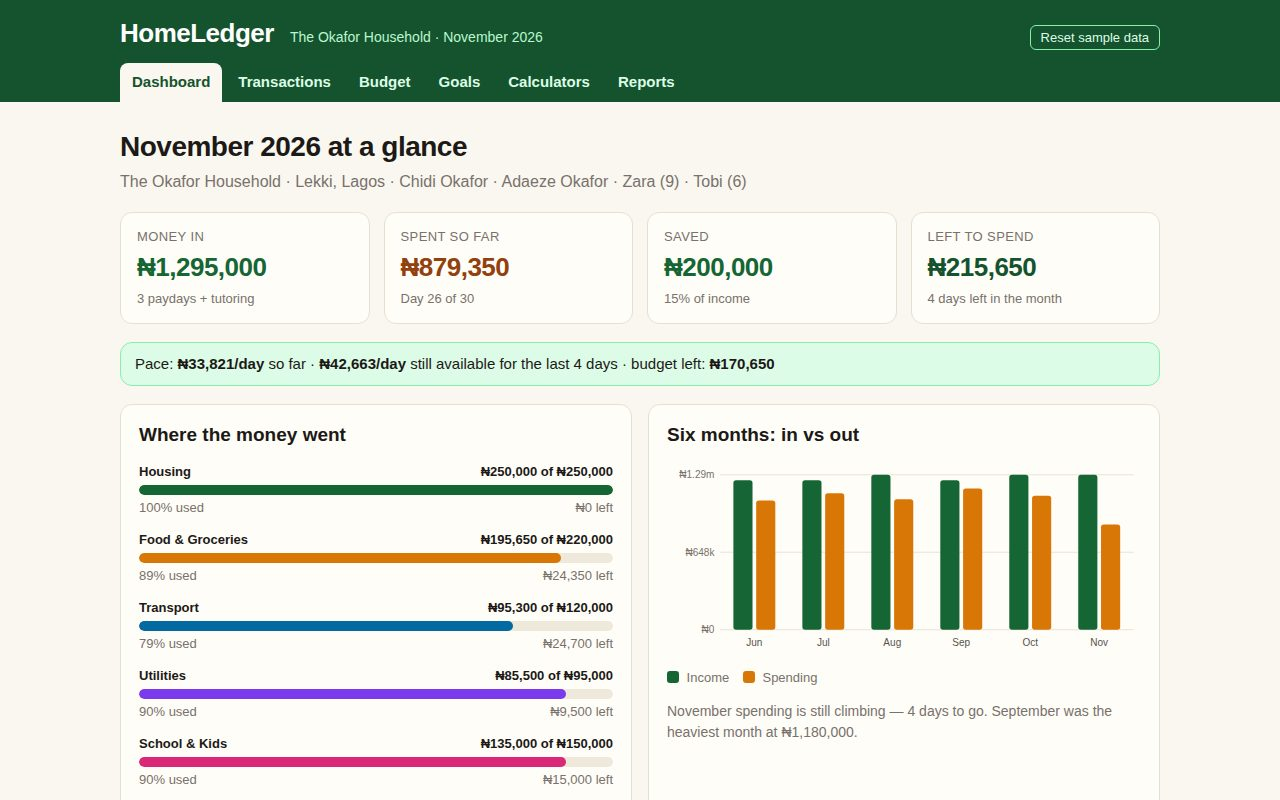
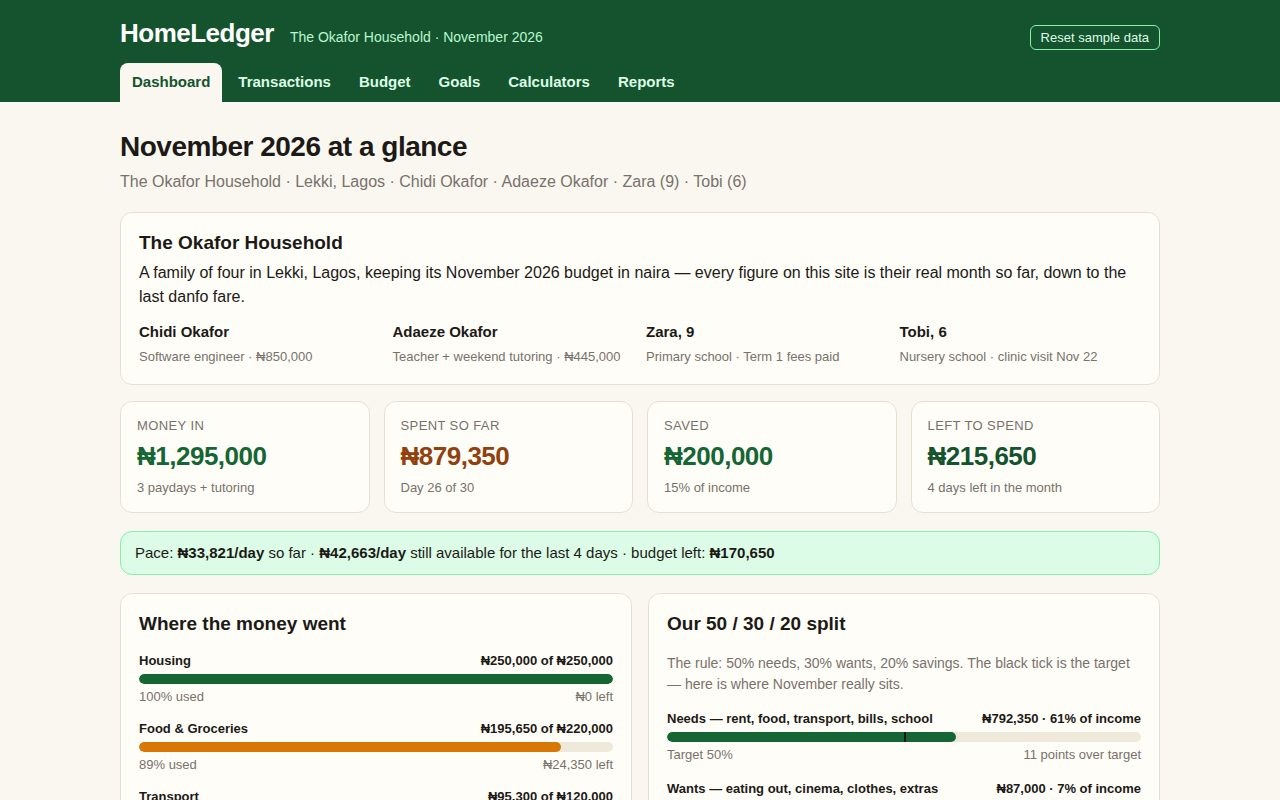
HomeLedger v2: named Okafor household card and live 50/30/20 split on the dashboard, working confirmations on every form

Changed region(s): [[0.0938, 0.2812, 0.9062, 1.0]]

diff --git a/app/views.js b/app/views.js
@@ -12,6 +12,7 @@ import {
   budgetTotal,
   remaining,
   savingsRate,
+  split502030,
   daysLeft,
   dailyPace,
   monthlyTrend,
@@ -30,6 +31,13 @@ function catLabel(id) {
   const c = CATEGORIES.find((x) => x.id === id);
   return c ? c.label : id;
 }
+
+// One-shot confirmations: a form sets these, then rerender() redraws the
+// page — the message is printed into the fresh page and cleared, so it
+// survives the redraw instead of being wiped by it (the v1 bug: the
+// "Added" message was written and then immediately erased by rerender).
+let txFlash = "";
+let goalFlash = "";
 
 function moneyCard(label, value, sub, tone) {
   return `<div class="card money ${tone || ""}">
@@ -51,16 +59,68 @@ function barRow(label, spent, budget, color) {
 
 // ---------------- Dashboard ----------------
 
+// One row of the 50/30/20 panel: the household's real share of income
+// against the rule's target, with the target drawn as a tick on the bar.
+function splitRow(label, amount, actualPct, targetPct, color, what) {
+  const over = actualPct > targetPct;
+  return `<div class="split-row">
+    <div class="bar-head"><span>${label} — ${what}</span><span>${naira(amount)} · ${actualPct}% of income</span></div>
+    <div class="bar-track split-track"><div class="bar-fill" style="width:${Math.min(100, actualPct)}%;background:${color}"></div><span class="split-target" style="left:${targetPct}%"></span></div>
+    <div class="bar-foot"><span>Target ${targetPct}%</span><span>${over ? actualPct - targetPct + " points over target" : targetPct - actualPct + " points under target"}</span></div>
+  </div>`;
+}
+
+// Plain-English verdict on the household's real split, computed from live
+// figures so it stays true when the household edits its money.
+function splitVerdict(s) {
+  const bits = [];
+  if (s.needsPct > 50) {
+    bits.push(
+      "Needs run " + s.needsPct + "% — " + (s.needsPct - 50) + " points over the 50% target. " +
+      "Rent (" + naira(spentByCategory().housing) + ") and school fees (" + naira(spentByCategory().school) +
+      ") are fixed this month, so the gap has to close on the savings side, not by cutting needs.",
+    );
+  } else {
+    bits.push("Needs sit at " + s.needsPct + "%, inside the 50% target — the essentials are covered.");
+  }
+  if (s.wantsPct < 30) {
+    bits.push(
+      "Wants are only " + s.wantsPct + "% — well inside the 30% — so the slack is there.",
+    );
+  }
+  if (s.savePct < 20) {
+    const shortfall = Math.round(s.income * 0.2) - s.saved;
+    bits.push(
+      "Savings sit at " + s.savePct + "% — " + naira(shortfall) + " short of 20%. " +
+      "Move that much of the " + naira(remaining()) + " left before the 30th and the household hits the target.",
+    );
+  } else {
+    bits.push("Savings are at " + s.savePct + "% — the 20% target is met.");
+  }
+  return bits.join(" ");
+}
+
 export function renderDashboard() {
   const spent = spentByCategory();
   const pace = dailyPace();
   const trend = monthlyTrend();
+  const split = split502030();
   const recent = [...state.transactions].sort((a, b) => b.day - a.day || b.id - a.id).slice(0, 6);
-  const goals = state.goals.slice(0, 3);
 
   return `
   <h1>November 2026 at a glance</h1>
   <p class="lede">${HOUSEHOLD.name} · ${HOUSEHOLD.place} · ${HOUSEHOLD.members.join(" · ")}</p>
+
+  <section class="panel household-card" aria-label="The household">
+    <h2>The Okafor Household</h2>
+    <p>A family of four in Lekki, Lagos, keeping its November 2026 budget in naira — every figure on this site is their real month so far, down to the last danfo fare.</p>
+    <div class="household-members">
+      <div class="member"><strong>Chidi Okafor</strong><span>Software engineer · ${naira(850000)}</span></div>
+      <div class="member"><strong>Adaeze Okafor</strong><span>Teacher + weekend tutoring · ${naira(445000)}</span></div>
+      <div class="member"><strong>Zara, 9</strong><span>Primary school · Term 1 fees paid</span></div>
+      <div class="member"><strong>Tobi, 6</strong><span>Nursery school · clinic visit Nov 22</span></div>
+    </div>
+  </section>
 
   <section class="money-grid" aria-label="Month summary">
     ${moneyCard("Money in", naira(incomeTotal()), "3 paydays + tutoring", "in")}
@@ -79,6 +139,18 @@ export function renderDashboard() {
       ${CATEGORIES.map((c) => barRow(c.label, spent[c.id], state.budgets[c.id], CATEGORY_COLORS[c.id])).join("")}
       <p class="panel-link"><a href="#/budget">Adjust the budgets →</a></p>
     </section>
+    <section class="panel" aria-label="50 30 20 split">
+      <h2>Our 50 / 30 / 20 split</h2>
+      <p class="note">The rule: 50% needs, 30% wants, 20% savings. The black tick is the target — here is where November really sits.</p>
+      ${splitRow("Needs", split.needs, split.needsPct, 50, "#166534", "rent, food, transport, bills, school")}
+      ${splitRow("Wants", split.wants, split.wantsPct, 30, "#d97706", "eating out, cinema, clothes, extras")}
+      ${splitRow("Savings", split.saved, split.savePct, 20, "#0369a1", "emergency fund + goals")}
+      <p class="verdict">${splitVerdict(split)}</p>
+      <p class="panel-link"><a href="#/calculators">Try the split on your own income →</a></p>
+    </section>
+  </div>
+
+  <div class="two-col">
     <section class="panel" aria-label="Six month trend">
       <h2>Six months: in vs out</h2>
       ${barsChart(trend.map((m) => ({ label: m.month.split(" ")[0], income: m.income, spent: m.spent })), 520, 210)}
@@ -86,9 +158,6 @@ export function renderDashboard() {
       <span class="swatch" style="background:#d97706"></span> Spending</p>
       <p class="note">November spending is still climbing — 4 days to go. September was the heaviest month at ${naira(1180000)}.</p>
     </section>
-  </div>
-
-  <div class="two-col">
     <section class="panel" aria-label="Recent transactions">
       <h2>Latest spending</h2>
       <ul class="tx-list">
@@ -96,13 +165,19 @@ export function renderDashboard() {
       </ul>
       <p class="panel-link"><a href="#/transactions">All ${state.transactions.length} transactions →</a></p>
     </section>
-    <section class="panel" aria-label="Bills and goals">
+  </div>
+
+  <div class="two-col">
+    <section class="panel" aria-label="Upcoming bills">
       <h2>Coming up</h2>
       <ul class="tx-list">
         ${UPCOMING_BILLS.map((b) => `<li><span class="tx-day">${b.day}</span><span class="tx-desc">${b.desc}</span><span class="tx-amt out">−${naira(b.amount)}</span></li>`).join("")}
       </ul>
-      <h2 class="goals-h">Savings goals</h2>
-      ${goals.map((g) => `<div class="goal-mini"><span>${g.name}</span><span>${pct(g.saved, g.target)}% · ${naira(g.saved)} of ${naira(g.target)}</span></div>
+      <p class="note">December rent lands on the 1st — ${naira(250000)} of the ${naira(remaining())} left is already spoken for.</p>
+    </section>
+    <section class="panel" aria-label="Savings goals">
+      <h2>Savings goals</h2>
+      ${state.goals.map((g) => `<div class="goal-mini"><span>${g.name}</span><span>${pct(g.saved, g.target)}% · ${naira(g.saved)} of ${naira(g.target)}</span></div>
       <div class="bar-track slim"><div class="bar-fill" style="width:${pct(g.saved, g.target)}%;background:#166534"></div></div>`).join("")}
       <p class="panel-link"><a href="#/goals">All savings goals →</a></p>
     </section>
@@ -114,6 +189,8 @@ export function renderDashboard() {
 export function renderTransactions() {
   const sorted = [...state.transactions].sort((a, b) => b.day - a.day || b.id - a.id);
   const income = state.transactions.filter((t) => t.kind === "income").length;
+  const msg = txFlash;
+  txFlash = "";
   return `
   <h1>Transactions</h1>
   <p class="lede">Every naira in and out this month — ${state.transactions.length} entries, ${income} of them income.</p>
@@ -146,7 +223,7 @@ export function renderTransactions() {
       </label>
       <div class="form-actions"><button type="submit" class="btn">Add it</button></div>
     </form>
-    <p class="note" id="add-tx-msg" role="status"></p>
+    <p class="note" id="add-tx-msg" role="status">${msg}</p>
   </section>
 
   <section class="panel">
@@ -198,10 +275,8 @@ export function bindTransactions(rerender) {
       kind: fd.get("kind"),
       amount: Number(fd.get("amount")),
     });
-    document.getElementById("add-tx-msg").textContent =
+    txFlash =
       "Added: " + tx.desc + " — " + signedNaira(tx.amount) + ". Totals updated everywhere.";
-    form.reset();
-    form.elements.day.value = 26;
     rerender();
   });
 
@@ -294,10 +369,13 @@ export function bindBudget(rerender) {
 export function renderGoals() {
   const totalSaved = state.goals.reduce((a, g) => a + g.saved, 0);
   const totalTarget = state.goals.reduce((a, g) => a + g.target, 0);
+  const msg = goalFlash;
+  goalFlash = "";
   return `
   <h1>Savings goals</h1>
   <p class="lede"><strong>${naira(totalSaved)}</strong> saved toward <strong>${naira(totalTarget)}</strong> across ${state.goals.length} goals.
   Add money to any goal and its bar moves at once.</p>
+  ${msg ? `<p class="calc-result" role="status">${msg}</p>` : ""}
 
   <div class="goal-grid">
     ${state.goals.map((g) => {
@@ -326,7 +404,12 @@ export function bindGoals(rerender) {
   document.querySelectorAll(".goal-form").forEach((form) =>
     form.addEventListener("submit", (e) => {
       e.preventDefault();
-      contributeToGoal(form.dataset.goal, Number(new FormData(form).get("amount")));
+      const amount = Number(new FormData(form).get("amount"));
+      const goal = state.goals.find((g) => g.id === form.dataset.goal);
+      contributeToGoal(form.dataset.goal, amount);
+      goalFlash =
+        "Added " + naira(amount) + " to " + goal.name + " — now " + naira(goal.saved) +
+        " of " + naira(goal.target) + " (" + pct(goal.saved, goal.target) + "% there).";
       rerender();
     }),
   );
@@ -388,14 +471,12 @@ export function renderCalculators() {
 }
 
 export function bindCalculators() {
-  // The household's real split, from live figures: wants are entertainment,
-  // clothing and misc; everything else spent is needs.
-  const spent = spentByCategory();
-  const wants = spent.entertainment + spent.clothing + spent.misc;
-  const needs = spentTotal() - wants;
+  // The household's real split, from live figures — the same definition
+  // the dashboard's 50/30/20 panel uses.
+  const s = split502030();
   document.getElementById("real-split").textContent =
-    "This household's real split this month: needs " + naira(needs) + " on essentials, wants " +
-    naira(wants) + " on fun and extras, savings " + naira(savedTotal()) + ".";
+    "This household's real split this month: needs " + naira(s.needs) + " (" + s.needsPct + "%) on essentials, wants " +
+    naira(s.wants) + " (" + s.wantsPct + "%) on fun and extras, savings " + naira(s.saved) + " (" + s.savePct + "%).";
 
   const split = () => {
     const income = Number(document.getElementById("split-income").value) || 0;

diff --git a/app/style.css b/app/style.css
@@ -64,6 +64,28 @@ h2 { font-size: 19px; margin: 0 0 12px; }
   padding: 10px 14px; margin: 0 0 18px; font-size: 15px;
 }
 
+/* Household identity card */
+.household-card { background: #f0fdf4; border-color: #86efac; }
+.household-card h2 { margin-bottom: 4px; }
+.household-card > p { margin: 0 0 12px; }
+.household-members {
+  display: grid; grid-template-columns: repeat(4, 1fr); gap: 12px;
+}
+.member strong { display: block; font-size: 15px; }
+.member span { font-size: 13px; color: var(--muted); }
+
+/* 50/30/20 split rows: the black tick marks the rule's target */
+.split-row { margin-bottom: 14px; }
+.split-track { position: relative; }
+.split-target {
+  position: absolute; top: -3px; bottom: -3px; width: 2px;
+  background: var(--ink);
+}
+.verdict {
+  background: #dcfce7; border: 1px solid #86efac; border-radius: 8px;
+  padding: 10px 12px; font-size: 14px; margin: 4px 0 0;
+}
+
 /* Money cards */
 .money-grid {
   display: grid; grid-template-columns: repeat(4, 1fr); gap: 14px; margin-bottom: 18px;
@@ -205,6 +227,7 @@ h2 { font-size: 19px; margin: 0 0 12px; }
 @media (max-width: 760px) {
   .money-grid { grid-template-columns: repeat(2, 1fr); }
   .money-grid.three { grid-template-columns: 1fr; }
+  .household-members { grid-template-columns: 1fr 1fr; }
   .two-col { grid-template-columns: 1fr; }
   .goal-grid { grid-template-columns: 1fr; }
   .form-grid { grid-template-columns: 1fr 1fr; }

diff --git a/app/store.js b/app/store.js
@@ -14,6 +14,7 @@ import {
   DAYS_IN_MONTH,
   TODAY_DAY,
 } from "./data.js";
+import { pct } from "./format.js";
 
 const STORAGE_KEY = "homeledger-v1";
 
@@ -161,6 +162,28 @@ export function remaining() {
 export function savingsRate() {
   const income = incomeTotal();
   return income ? Math.round((savedTotal() / income) * 100) : 0;
+}
+
+// The household's 50/30/20 split, from live figures: wants are
+// entertainment, clothing and misc; everything else spent is needs;
+// savings are the monthly transfer to the savings account. The
+// calculators page and the dashboard both read this one definition,
+// so the split can never disagree between pages.
+export function split502030() {
+  const spent = spentByCategory();
+  const income = incomeTotal();
+  const wants = spent.entertainment + spent.clothing + spent.misc;
+  const needs = spentTotal() - wants;
+  const saved = savedTotal();
+  return {
+    income,
+    needs,
+    wants,
+    saved,
+    needsPct: pct(needs, income),
+    wantsPct: pct(wants, income),
+    savePct: pct(saved, income),
+  };
 }
 
 export function daysLeft() {

diff --git a/main.ts b/main.ts
@@ -1,9 +1,13 @@
-// HomeLedger hand-in program (Node 22, standard library only).
+// HomeLedger v2 hand-in program (Node 22, standard library only).
 //
 // It gathers the site — app/ and screenshots/ from beside this file — into
 // the output directory and writes dossier.json there with the kit's vendored
 // buildDossier from vendor/makefun-frontend.ts, which must stay untouched:
 // the scorer rebuilds the dossier with its own copy and compares bytes.
+//
+// v2: the dashboard names the household (the Okafor family of Lekki, Lagos)
+// and shows its real 50/30/20 split against the rule, with a verdict on
+// what to do about it; every form now confirms what it did.
 //
 // Run it locally like this:
 //   mkdir -p out && MAKEFUN_OUTPUT_DIR=out node main.ts
@@ -41,4 +45,4 @@ const dossier = buildDossier(outputDir, {
   app_max_bytes: 16777216,
 });
 writeFileSync(join(outputDir, "dossier.json"), dossier);
-console.log("HomeLedger dossier written to " + join(outputDir, "dossier.json"));
+console.log("HomeLedger v2 dossier written to " + join(outputDir, "dossier.json"));

diff --git a/README.md b/README.md
@@ -16,15 +16,19 @@ reports always agree.
 
 Six pages, each reached by a link and by its own URL:
 
-- `#/` — Dashboard: money in / spent / saved / left, daily pace, budget
-  bars for all 9 categories, six-month income-vs-spending chart, latest
-  transactions, upcoming bills, savings goals
+- `#/` — Dashboard: the Okafor household card (who they are, who earns
+  what), money in / spent / saved / left, daily pace, budget bars for all
+  9 categories, the household's real 50/30/20 split against the rule with
+  a verdict on what to do about it, six-month income-vs-spending chart,
+  latest transactions, upcoming bills, savings goals
 - `#/transactions` — all 31 transactions with category, type and search
-  filters, an add-transaction form that updates every total, and delete
+  filters, an add-transaction form that updates every total and confirms
+  what it added, and delete
 - `#/budget` — the monthly plan: edit any category budget or the savings
   transfer and the bars and totals move with it
 - `#/goals` — four savings goals with progress bars and an add-money form
-  on each (emergency fund, school fees, Tokunbo car, Detty December)
+  on each that confirms the new total (emergency fund, school fees,
+  Tokunbo car, Detty December)
 - `#/calculators` — a 50/30/20 income splitter, a goal planner (how much
   a month to hit a goal on time) and a "can we afford it?" check
 - `#/reports` — six-month income vs spending, a spending donut, and a
